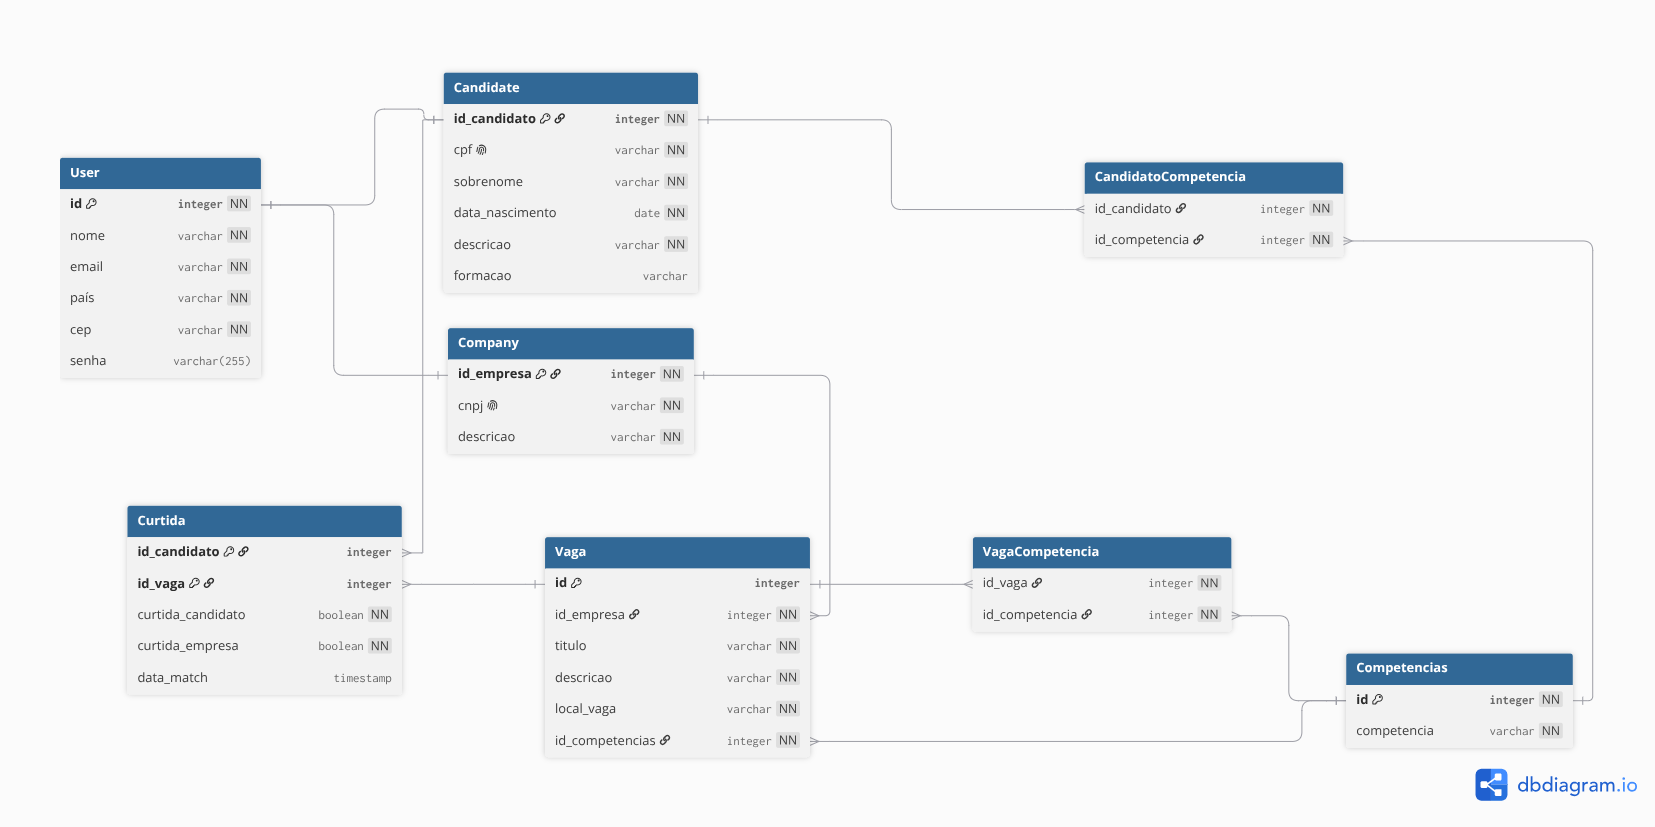
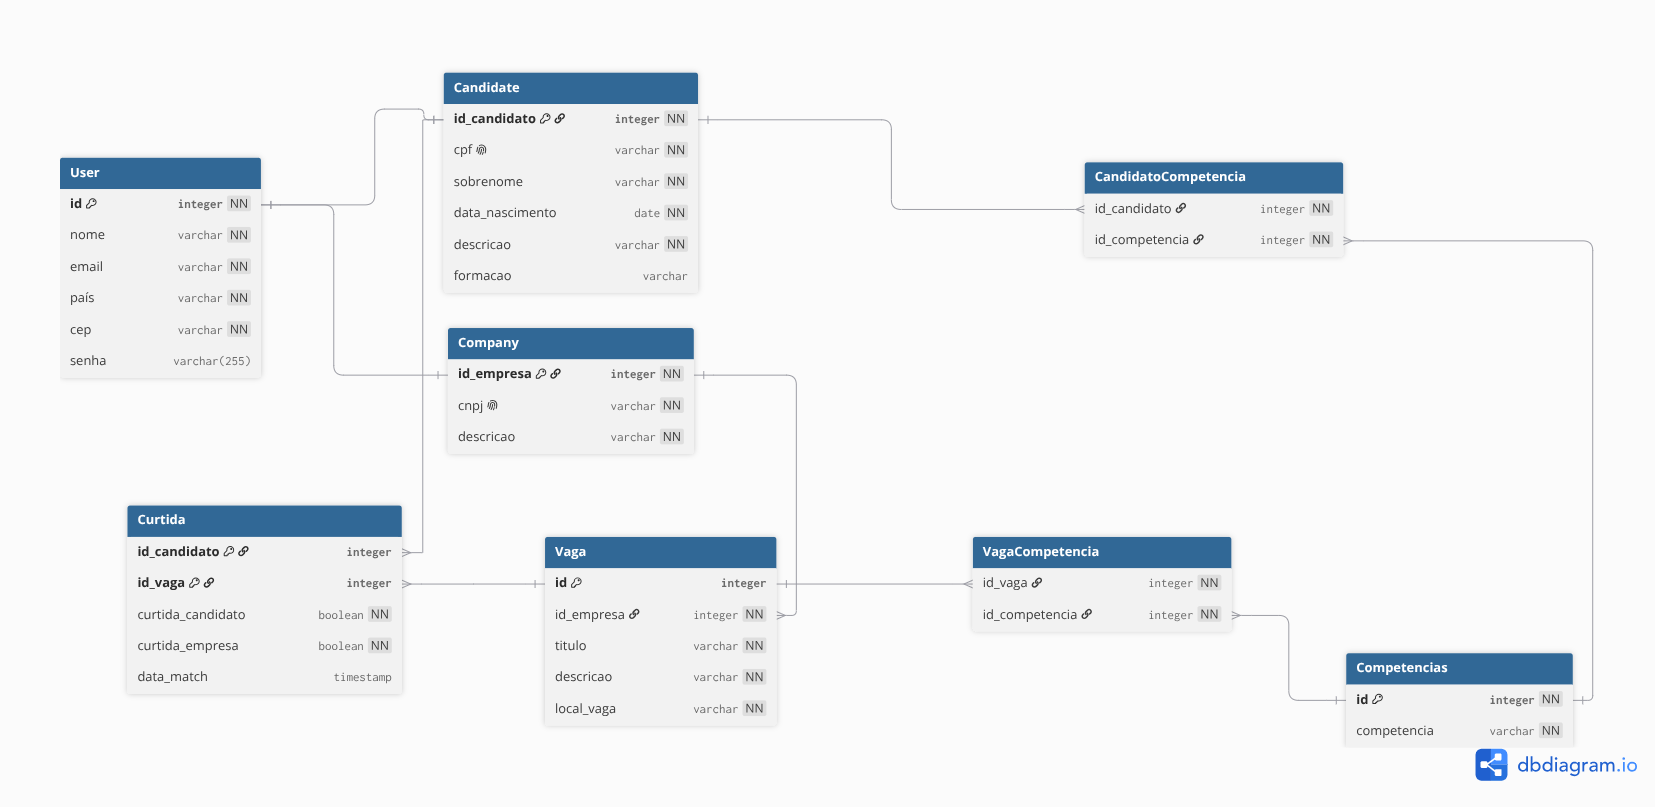
docs: atualiza evolucao da integracao jdbc

diff --git a/README.md b/README.md
@@ -49,6 +49,39 @@ O candidato pode selecionar uma vaga e curtir essa oportunidade. A empresa pode 
 
 As curtidas sao armazenadas em memoria durante a execucao do programa.
 
+## Atualizacao: Integracao entre PostgreSQL e backend
+
+Nesta etapa comecei a integrar o backend do Linketinder com o PostgreSQL utilizando JDBC, sem utilizar JPA ou Hibernate.
+
+Separei as responsabilidades entre `view`, `controller` e `dao`. O `MenuConsole` coleta e exibe os dados, os controllers fazem a comunicacao com os DAOs e os DAOs executam os comandos SQL.
+
+Foram implementadas as seguintes funcionalidades:
+
+- Cadastro e listagem de candidatos no banco de dados.
+- Cadastro e listagem de empresas no banco de dados.
+- Cadastro, busca e listagem de competencias.
+- Relacao N:N entre candidatos e competencias utilizando `CandidatoCompetencia`.
+- Cadastro e listagem de vagas.
+- Relacao N:N entre vagas e competencias utilizando `VagaCompetencia`.
+- Relacao 1:N entre empresa e vagas utilizando `Vaga.id_empresa`.
+- Feed anonimo de candidatos, sem exibir os dados pessoais.
+- Feed anonimo de vagas, sem exibir o nome da empresa.
+- Validacao de CPF, CNPJ, CEP e tamanho minimo da senha.
+
+No cadastro de candidato, a aplicacao cria o usuario, cria o candidato e relaciona suas competencias dentro da mesma transacao. No cadastro de empresa, cria o usuario e utiliza o ID retornado para criar a empresa.
+
+Para cadastrar uma vaga, o usuario seleciona uma empresa ja cadastrada, informa titulo, descricao e local, depois adiciona as competencias. Caso a competencia nao exista, ela e criada antes de gerar o relacionamento com a vaga.
+
+Foi utilizado `commit` para confirmar as operacoes e `rollback` para desfazer tudo quando ocorre algum erro durante o cadastro.
+
+Os arquivos relacionados ao banco estao em:
+
+- `sql/Linketinder.sql`: criacao das tabelas e relacionamentos.
+- `sql/DadosIniciais.sql`: candidatos, empresas, competencias e vagas ficticias.
+- `docs/derLinketinder.png`: imagem atualizada do diagrama.
+
+O menu atual permite listar e cadastrar candidatos e empresas, mostrar competencias, visualizar os feeds anonimos e cadastrar vagas relacionadas a uma empresa existente.
+
 ## Como Executar
 
 No terminal, dentro da pasta do projeto:
@@ -64,6 +97,8 @@ No terminal, dentro da pasta do projeto:
 - Scanner para entrada de dados pelo terminal
 - ArrayList para armazenar candidatos, empresas e competencias
 
-## Observacoes
+## Observacoes da versao inicial
 
 Os dados sao armazenados apenas em memoria. Ao encerrar o programa, os cadastros feitos pelo terminal nao sao salvos em arquivo ou banco de dados.
+
+Na versao atual, os fluxos integrados por JDBC sao persistidos no PostgreSQL. As curtidas e o match ainda pertencem ao fluxo antigo em memoria e serao integrados em uma proxima etapa.
